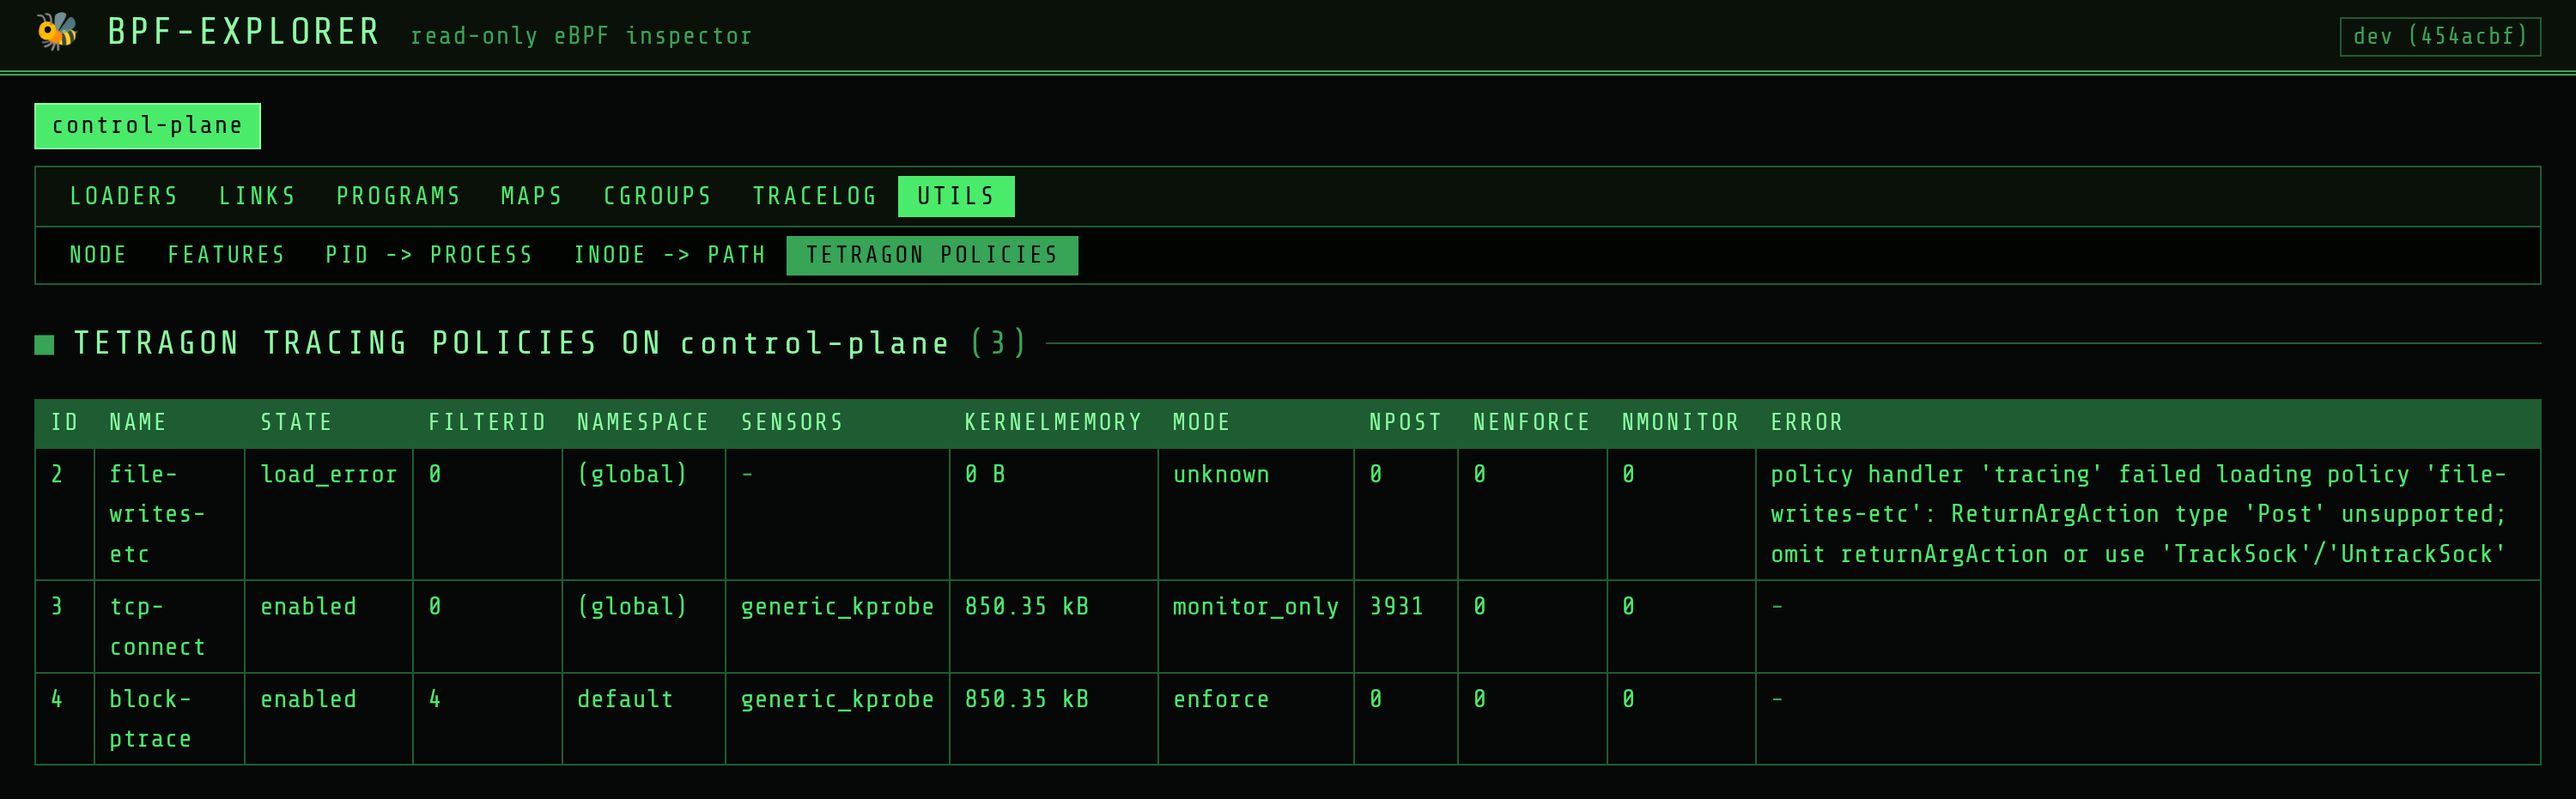
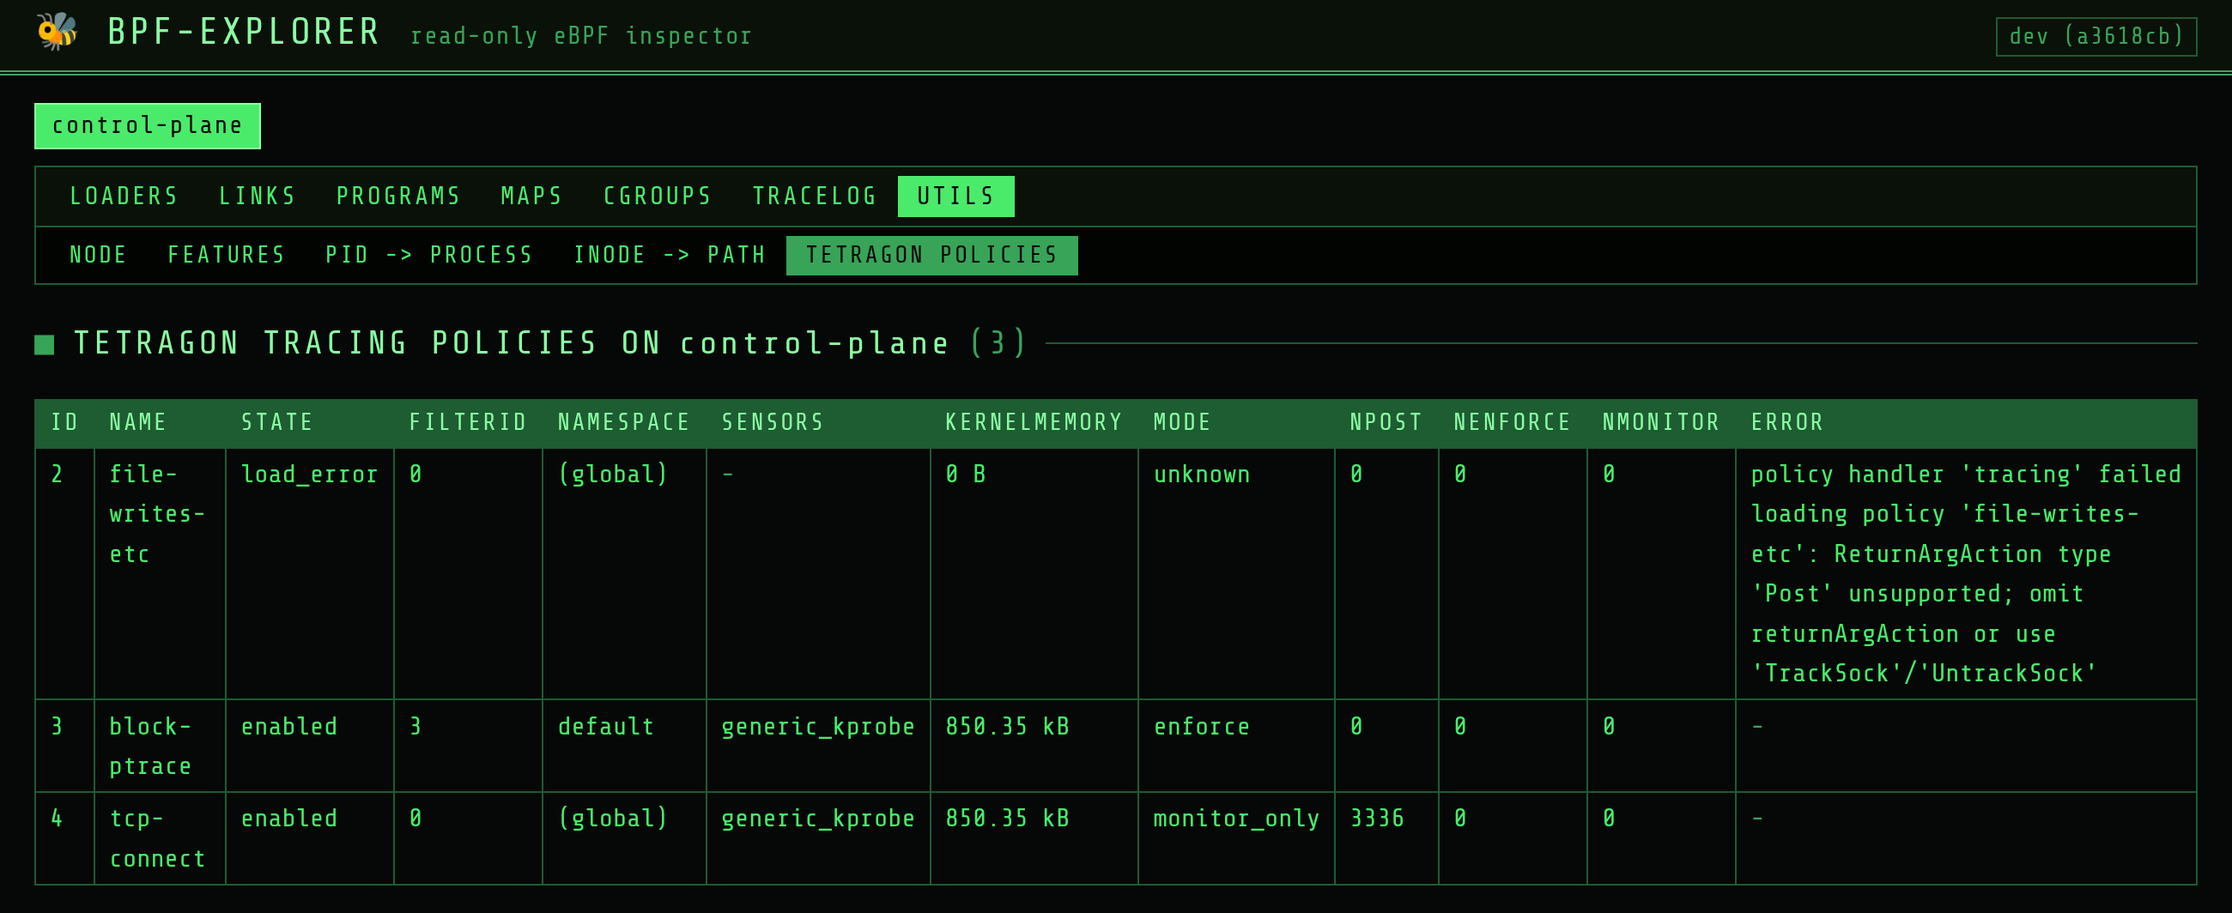
docs: retake screenshots at one width, add the programs list with run stats

diff --git a/README.md b/README.md
@@ -78,13 +78,19 @@ program, and that program references four maps:
 
 ![bpf-explorer loaders tab showing a link attached to the tg_kp_bprm_committing_creds program, which references four maps](README/bpf-explorer-loader-graph.png)
 
+The `programs` tab lists the programs on a node. Turn on run stats to see how
+many times each program ran and its average run time. They switch off after 10
+minutes:
+
+![bpf-explorer programs tab listing Tetragon's programs with run counts, run time and average time per run](README/bpf-explorer-programs.png)
+
 Every program has an `xlated` tab. It shows the translated bytecode, the same
 disassembly as `bpftool prog dump xlated`. Map ids are links; calls to BPF
 helpers are highlighted:
 
 ![bpf-explorer xlated tab showing the translated eBPF bytecode of the tg_kp_bprm_committing_creds program](README/bpf-explorer-program-xlated.png)
 
-These are two views. There are more: maps and their contents, program details,
+These are three views. There are more: maps and their contents, program details,
 links, the trace log for each node, and the `utils` tab. Run the tool to see
 them.
 
